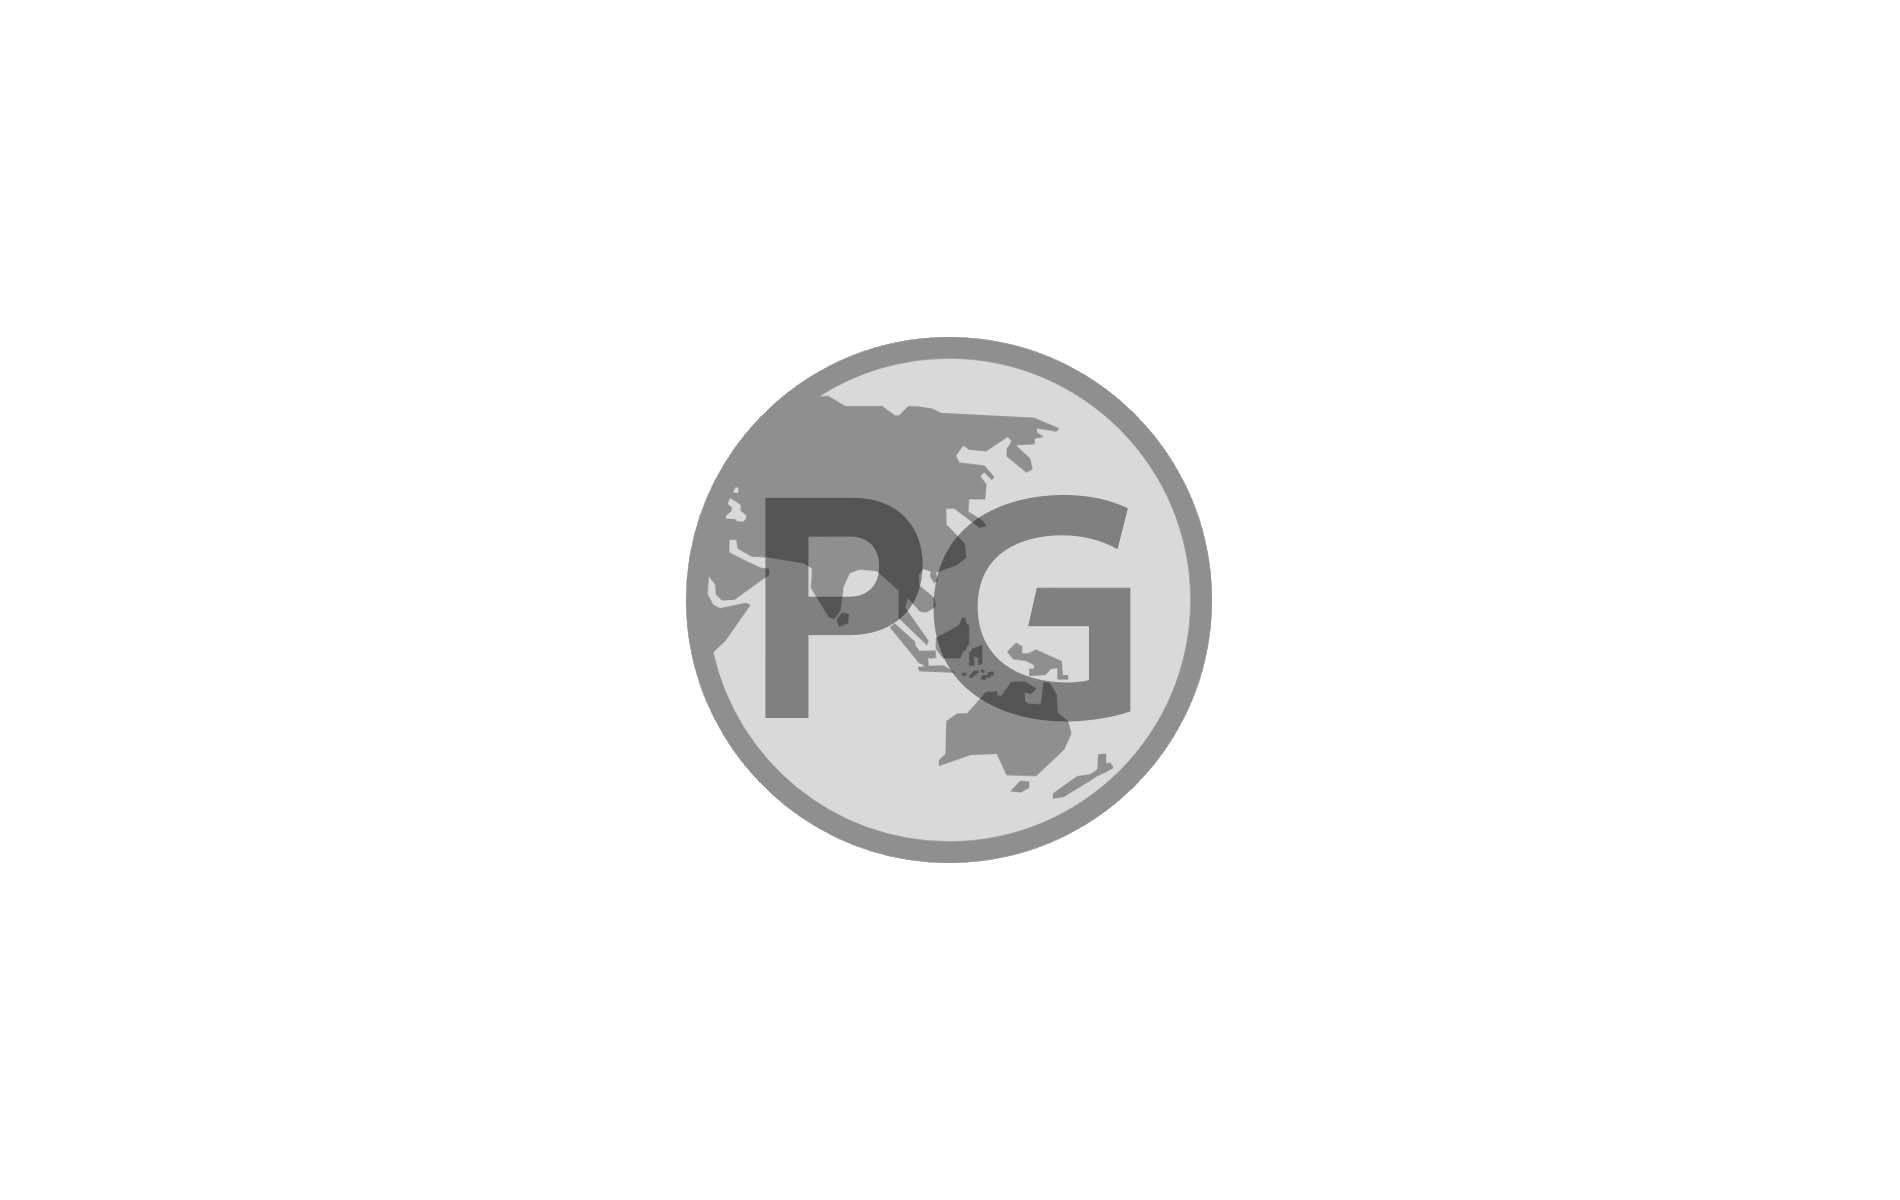
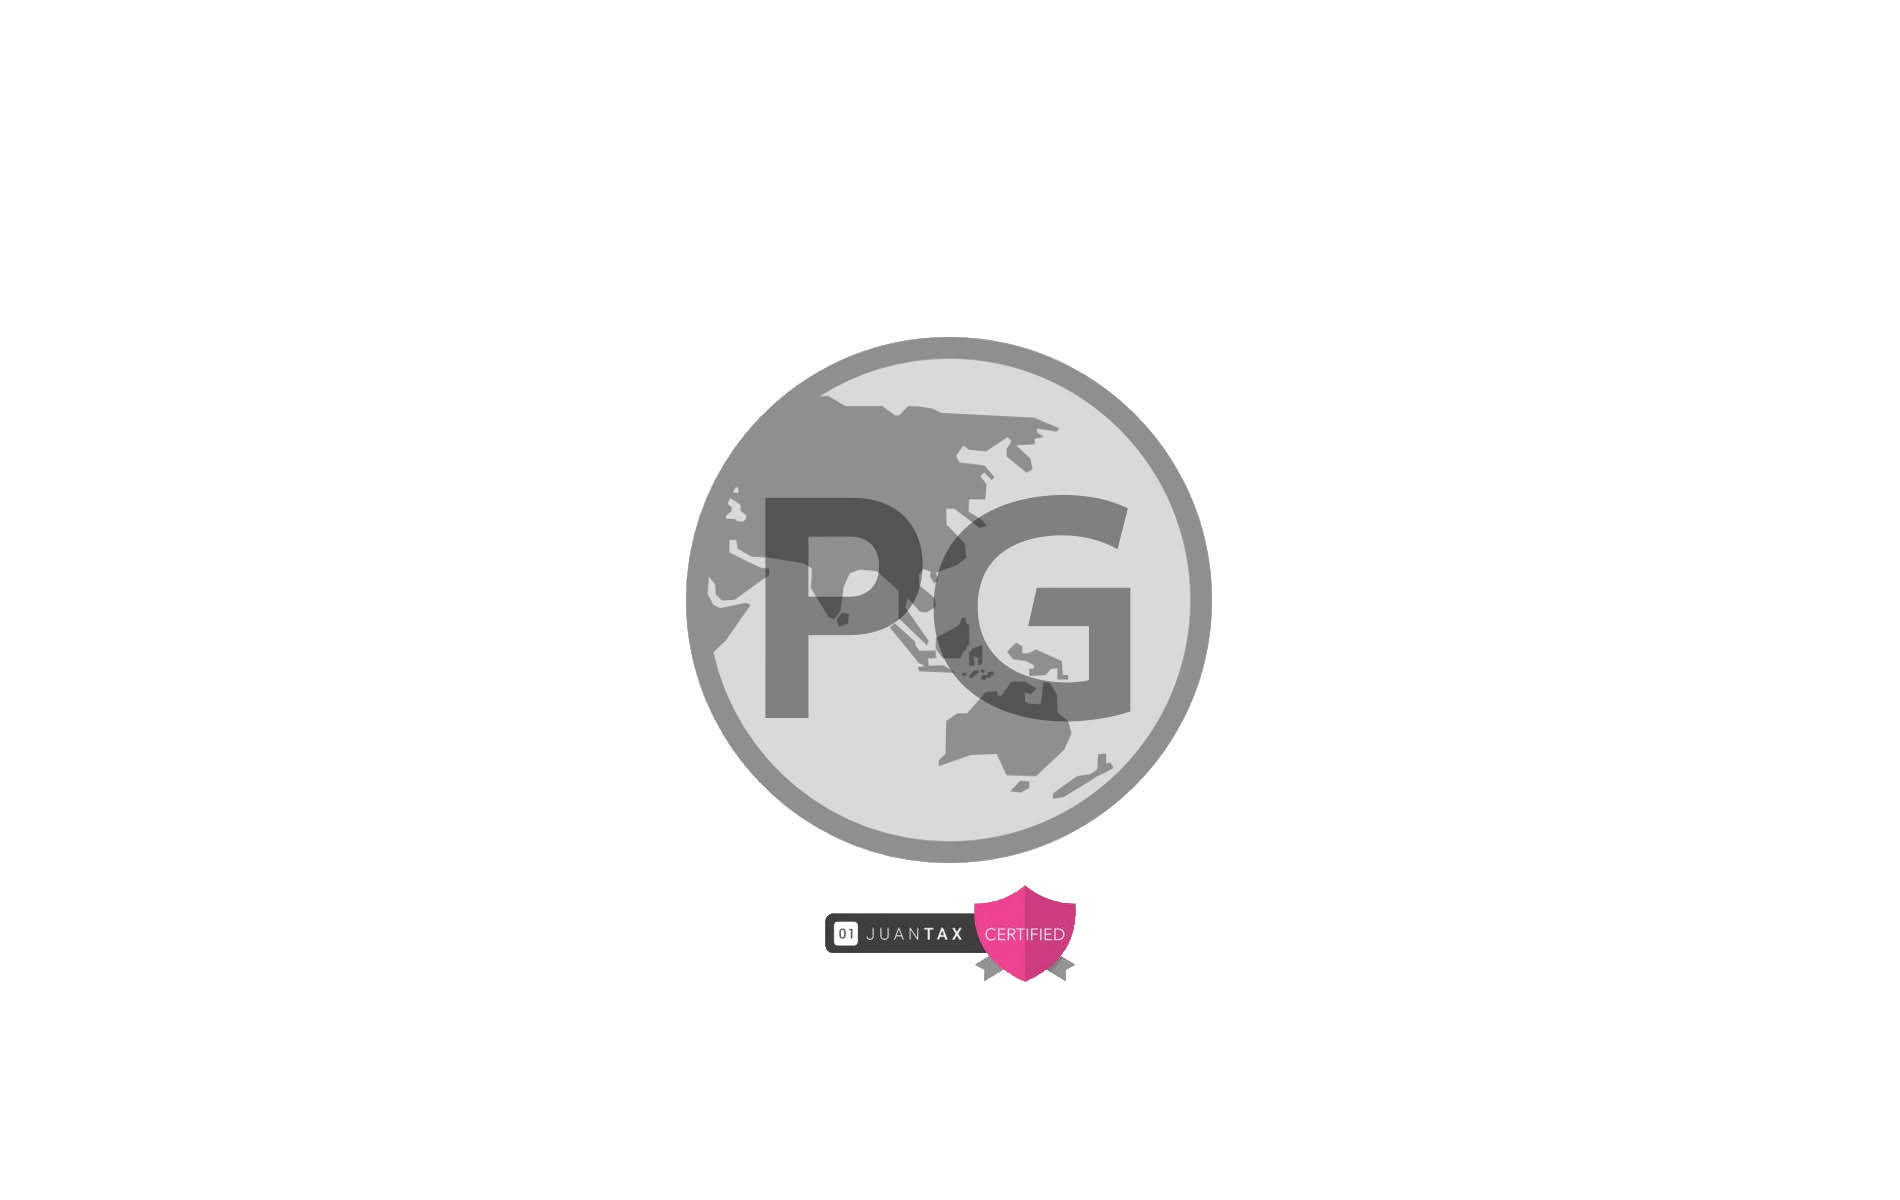
Add files via upload

Changed region(s): [[0.4347, 0.74, 0.59, 0.8325]]

diff --git a/index.html b/index.html
@@ -146,11 +146,11 @@
     <div class="container">
         <div class="row justify-content-center">
             <div class="col-12 col-md-10">
-                <div class="carousel slide" id="sNZ8gzbgtF" data-ride="carousel" data-bs-ride="carousel" data-interval="6000" data-bs-interval="6000">
+                <div class="carousel slide" id="sQ8gdlj4dA" data-ride="carousel" data-bs-ride="carousel" data-interval="6000" data-bs-interval="6000">
                     <div class="mbr-overlay" style="opacity: 0.2; background-color: rgb(71, 181, 237);">
                     </div>
                     <ol class="carousel-indicators">
-                        <li data-slide-to="0" data-bs-slide-to="0" class="active" data-target="#sNZ8gzbgtF" data-bs-target="#sNZ8gzbgtF"></li><li data-slide-to="1" data-bs-slide-to="1" class="" data-target="#sNZ8gzbgtF" data-bs-target="#sNZ8gzbgtF"></li><li data-slide-to="2" data-bs-slide-to="2" class="" data-target="#sNZ8gzbgtF" data-bs-target="#sNZ8gzbgtF"></li><li data-slide-to="3" data-bs-slide-to="3" class="" data-target="#sNZ8gzbgtF" data-bs-target="#sNZ8gzbgtF"></li><li data-slide-to="4" data-bs-slide-to="4" class="" data-target="#sNZ8gzbgtF" data-bs-target="#sNZ8gzbgtF"></li><li data-slide-to="5" data-bs-slide-to="5" class="" data-target="#sNZ8gzbgtF" data-bs-target="#sNZ8gzbgtF"></li><li data-slide-to="6" data-bs-slide-to="6" class="" data-target="#sNZ8gzbgtF" data-bs-target="#sNZ8gzbgtF"></li><li data-slide-to="7" data-bs-slide-to="7" class="" data-target="#sNZ8gzbgtF" data-bs-target="#sNZ8gzbgtF"></li><li data-slide-to="8" data-bs-slide-to="8" class="" data-target="#sNZ8gzbgtF" data-bs-target="#sNZ8gzbgtF"></li><li data-slide-to="9" data-bs-slide-to="9" class="" data-target="#sNZ8gzbgtF" data-bs-target="#sNZ8gzbgtF"></li><li data-slide-to="10" data-bs-slide-to="10" class="" data-target="#sNZ8gzbgtF" data-bs-target="#sNZ8gzbgtF"></li><li data-slide-to="11" data-bs-slide-to="11" class="" data-target="#sNZ8gzbgtF" data-bs-target="#sNZ8gzbgtF"></li><li data-slide-to="12" data-bs-slide-to="12" class="" data-target="#sNZ8gzbgtF" data-bs-target="#sNZ8gzbgtF"></li><li data-slide-to="13" data-bs-slide-to="13" class="" data-target="#sNZ8gzbgtF" data-bs-target="#sNZ8gzbgtF"></li>
+                        <li data-slide-to="0" data-bs-slide-to="0" class="active" data-target="#sQ8gdlj4dA" data-bs-target="#sQ8gdlj4dA"></li><li data-slide-to="1" data-bs-slide-to="1" class="" data-target="#sQ8gdlj4dA" data-bs-target="#sQ8gdlj4dA"></li><li data-slide-to="2" data-bs-slide-to="2" class="" data-target="#sQ8gdlj4dA" data-bs-target="#sQ8gdlj4dA"></li><li data-slide-to="3" data-bs-slide-to="3" class="" data-target="#sQ8gdlj4dA" data-bs-target="#sQ8gdlj4dA"></li><li data-slide-to="4" data-bs-slide-to="4" class="" data-target="#sQ8gdlj4dA" data-bs-target="#sQ8gdlj4dA"></li><li data-slide-to="5" data-bs-slide-to="5" class="" data-target="#sQ8gdlj4dA" data-bs-target="#sQ8gdlj4dA"></li><li data-slide-to="6" data-bs-slide-to="6" class="" data-target="#sQ8gdlj4dA" data-bs-target="#sQ8gdlj4dA"></li><li data-slide-to="7" data-bs-slide-to="7" class="" data-target="#sQ8gdlj4dA" data-bs-target="#sQ8gdlj4dA"></li><li data-slide-to="8" data-bs-slide-to="8" class="" data-target="#sQ8gdlj4dA" data-bs-target="#sQ8gdlj4dA"></li><li data-slide-to="9" data-bs-slide-to="9" class="" data-target="#sQ8gdlj4dA" data-bs-target="#sQ8gdlj4dA"></li><li data-slide-to="10" data-bs-slide-to="10" class="" data-target="#sQ8gdlj4dA" data-bs-target="#sQ8gdlj4dA"></li><li data-slide-to="11" data-bs-slide-to="11" class="" data-target="#sQ8gdlj4dA" data-bs-target="#sQ8gdlj4dA"></li><li data-slide-to="12" data-bs-slide-to="12" class="" data-target="#sQ8gdlj4dA" data-bs-target="#sQ8gdlj4dA"></li><li data-slide-to="13" data-bs-slide-to="13" class="" data-target="#sQ8gdlj4dA" data-bs-target="#sQ8gdlj4dA"></li>
                         
                         
                     </ol>
@@ -229,11 +229,11 @@
                             </div>
                         </div>
                     </div>
-                    <a class="carousel-control carousel-control-prev" role="button" data-slide="prev" data-bs-slide="prev" href="#sNZ8gzbgtF">
+                    <a class="carousel-control carousel-control-prev" role="button" data-slide="prev" data-bs-slide="prev" href="#sQ8gdlj4dA">
                         <span class="mobi-mbri mobi-mbri-arrow-prev" aria-hidden="true"></span>
                         <span class="sr-only visually-hidden">Previous</span>
                     </a>
-                    <a class="carousel-control carousel-control-next" role="button" data-slide="next" data-bs-slide="next" href="#sNZ8gzbgtF">
+                    <a class="carousel-control carousel-control-next" role="button" data-slide="next" data-bs-slide="next" href="#sQ8gdlj4dA">
                         <span class="mobi-mbri mobi-mbri-arrow-next" aria-hidden="true"></span>
                         <span class="sr-only visually-hidden">Next</span>
                     </a>
@@ -458,7 +458,21 @@
                     </div>
                 </div>
             </div>
-            
+            <div class="card col-12 col-md-6 col-lg-4">
+                <div class="card-wrapper">
+                    <div class="img-wrapper">
+                        <img src="assets/images/261505468-2089153464567784-9115088790115856745-n-280x122.jpg" alt="">
+                    </div>
+                    <div class="card-box align-center">
+                        <h6 class="card-subtitle mbr-fonts-style mb-0 display-4">
+                            Our Platform</h6>
+                        <h5 class="card-title mbr-fonts-style mb-3 display-4">
+                            <strong>JuanTax</strong></h5>
+                        <p class="mbr-text mbr-fonts-style mb-4 display-4">We use <a href="http://www.juan.tax" class="text-primary" target="_blank">JuanTax</a>&nbsp;in handling the tax compliance of our clients. JuanTax is the Philippine's first tax platform solution accredited by the Bureau of Internal Revenue's Electronic Electronic Tax Software Provider Certification (BIR eTSPCert) system.<br><br>JuanTax, your taxes done right.</p>
+                        
+                    </div>
+                </div>
+            </div>
             
         </div>
     </div>
@@ -498,7 +512,7 @@
                 </div>
             </div>
             <div class="map-wrapper col-12 col-md-6">
-                <div class="google-map"><iframe frameborder="0" style="border:0" src="https://www.google.com/maps/embed/v1/place?key=AIzaSyDk89J4FSunMF33ruMVWJaJht_Ro0kvoXs&amp;q=pojol and gabay" allowfullscreen=""></iframe></div>
+                <div class="google-map"><iframe frameborder="0" style="border:0" src="https://www.google.com/maps/embed/v1/place?key=AIzaSyCNveGQ9bfpKFwWzQLLftrR9hNiHwdqQG8&amp;q=pojol and gabay" allowfullscreen=""></iframe></div>
             </div>
         </div>
     </div>
